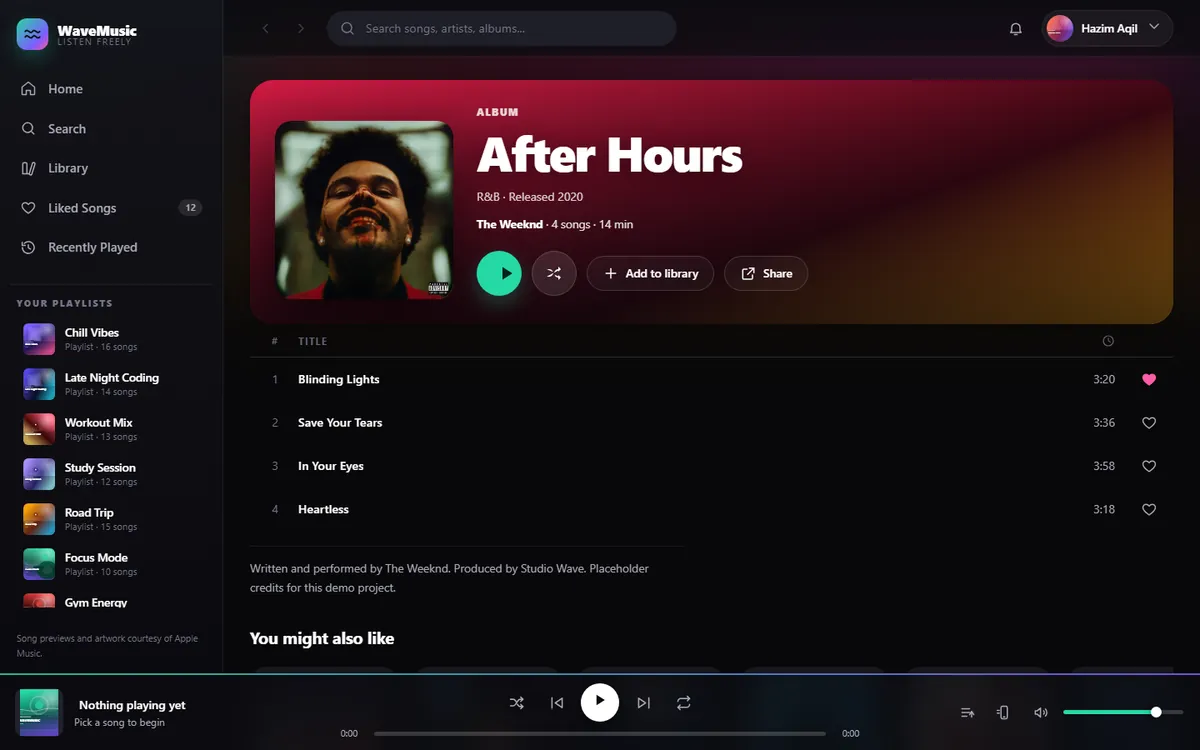
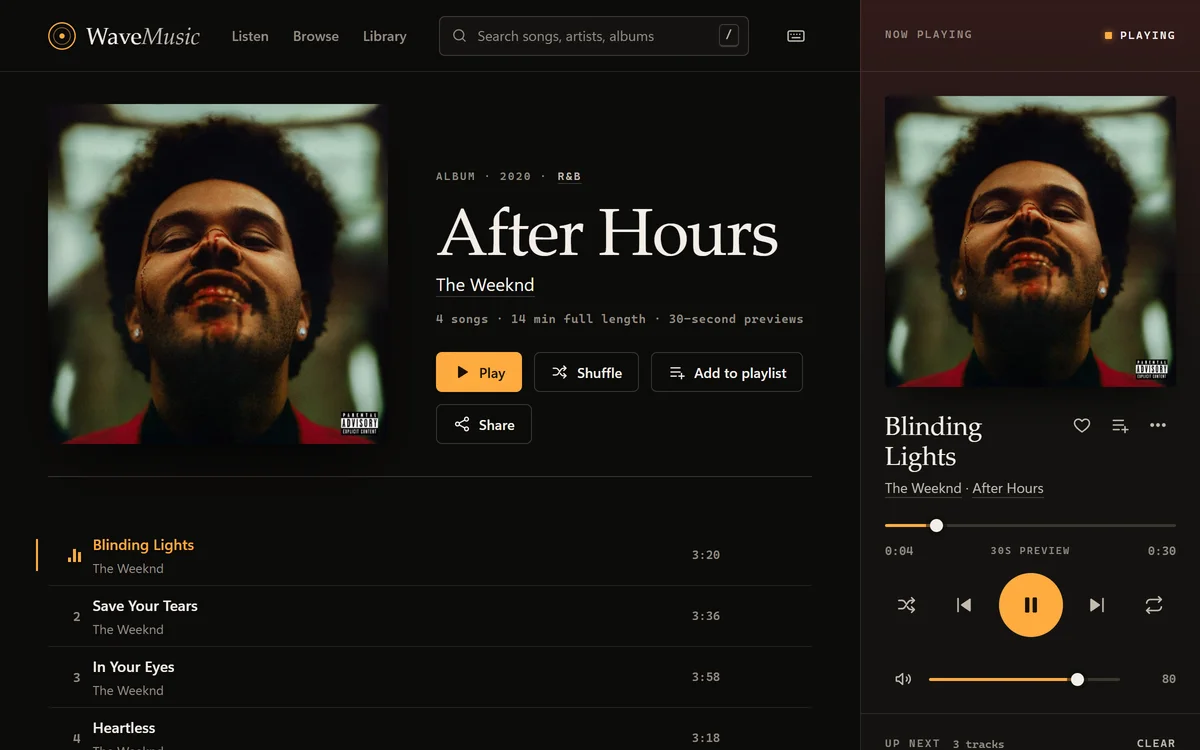
Update WaveMusic case study for version 2.0 with new screenshots

diff --git a/src/data/projects.ts b/src/data/projects.ts
@@ -160,100 +160,107 @@ tests/          Vitest tests for helpers, hooks and components`,
     category: 'web',
     featured: true,
     summary:
-      'A full music streaming front end with no framework and no dependencies: home feed, live search, library, playlist, album and artist pages, a queue, a Now Playing overlay and a working player with shuffle, repeat, a draggable progress bar and lock-screen Media Session info. A Node script checks 95 app behaviours.',
+      'A music listening app in plain JavaScript modules with no framework and no dependencies. It plays real 30-second Apple Music previews, with an artwork-led editorial design, a player you can see at all times, an editable queue, playlists, search with filters and lock-screen controls. 50 unit tests cover the queue, audio engine, player, library and search.',
     lede:
-      'A complete music streaming front end written in plain HTML, CSS and JavaScript, with no framework, no dependencies and no build step. It plays real 30-second previews of 63 songs, loaded live from Apple Music.',
-    figure: { value: '95', label: 'behaviours checked' },
-    tests: { count: 95, tool: 'custom checks' },
-    role: 'Solo project: design, code and generated artwork',
+      'A music listening app written in plain HTML, CSS and JavaScript modules, with no framework and no dependencies. It plays real 30-second previews of 63 songs, loaded live from Apple Music. Version 2.0 is a full rewrite: a new design, a modular codebase and real unit tests.',
+    figure: { value: '50', label: 'unit tests' },
+    tests: { count: 50, tool: 'node:test' },
+    role: 'Solo project: design, code, tests and generated artwork',
     type: 'Static front-end portfolio project',
-    stack: ['HTML', 'CSS', 'JavaScript', 'iTunes Search API', 'Media Session API', 'localStorage'],
+    stack: ['HTML', 'CSS', 'JavaScript', 'ES modules', 'iTunes Search API', 'Media Session API', 'localStorage', 'Node.js test runner'],
     links: {
       demo: 'https://hazell-lab.github.io/WaveMusic/',
       code: 'https://github.com/hazell-lab/WaveMusic',
     },
     cover: {
       src: wavemusicCover,
-      alt: 'WaveMusic home page with a sidebar, playlists and the bottom player',
-      caption: 'Home: greeting, recently played, mixes and the fixed bottom player.',
+      alt: 'WaveMusic Listen page with the number one song in large serif type and the player deck on the right, playing BIRDS OF A FEATHER',
+      caption: 'Listen page with the player deck, which stays in view on desktop.',
     },
     overview: [
-      'WaveMusic has a home feed, search, a library, playlist, album and artist pages, a queue, a Now Playing overlay and a working bottom player. The design is original: it takes the general feel of modern music apps but copies no branding, logos or layouts.',
-      'Because it uses **no framework**, every part of routing, rendering, state and events is written by hand, and the main challenge was keeping a large, app-like interface organised.',
+      'WaveMusic has a Listen page, Browse with search and genres, a Library, album, artist, collection and playlist pages, an editable queue and a player that is always in view. The design is led by artwork and set out like a magazine: large serif titles, a mono type for labels and one amber signal colour on near-black. It is meant to feel different from the big streaming apps, not copy them.',
+      'Version 2.0 replaced one 1,895-line script with **small ES modules**, removed every feature that only pretended to work, and added a real unit test suite that runs in Node with no dependencies.',
     ],
     features: [
-      { title: 'Real previews', text: 'Each song plays its official 30-second preview with real album artwork.' },
-      { title: 'Player', text: 'Play, pause, next, previous, shuffle, repeat (off, all, one), a draggable progress bar that also works with the keyboard, volume and mute.' },
-      { title: 'Playlists and queue', text: 'Playlist, album and artist pages with full track tables, a slide-in queue panel, and liked songs with their total duration.' },
-      { title: 'Media Session', text: 'Track metadata for the operating system and lock screen.' },
-      { title: 'Live search', text: 'Filters songs, artists, albums, playlists and genres as you type.' },
-      { title: 'Shareable views', text: 'The current page is kept in the URL hash, and back and forward work.' },
-      { title: 'Keyboard shortcuts', text: 'Space to play or pause, / to search, Shift + arrows for next and previous, Esc to close overlays.' },
+      { title: 'Real previews', text: 'Each song plays its official 30-second preview with real album artwork. One lookup request loads all 63 and is cached for 24 hours.' },
+      { title: 'Player', text: 'Play, pause, next, previous (which restarts after 3 seconds), seek, volume, mute, shuffle and repeat off, all or one, with a status lamp for loading, playing, paused and error.' },
+      { title: 'Queue', text: 'An up-next list with play now, move up, move down, remove, play next, add to queue and clear. Turning shuffle off restores the original order.' },
+      { title: 'Library and playlists', text: 'Like songs, follow artists, create, rename and delete playlists, reorder tracks, save a collection as your own and keep a play history.' },
+      { title: 'Search', text: 'Accent- and case-insensitive search across songs, albums, artists and collections, with type and genre filters and clear empty, loading and error states.' },
+      { title: 'Media Session', text: 'Title, artist, album and artwork on the lock screen and in the system media controls, with play, pause, next, previous and seek handlers.' },
+      { title: 'Keyboard', text: '11 shortcuts, including Space or K to play, Shift + arrows for next and previous, arrows to seek, / to search and ? for the full list.' },
+      { title: 'Phone layout', text: 'A bottom tab bar and a mini player that opens a full-screen player sheet, with the page behind it made inert.' },
     ],
     frontEnd: [
-      'One `state` object holds the view history, queue, current position, shuffle, repeat, volume and liked songs. It is saved to localStorage and read back on load.',
-      'Shuffle keeps its own shuffled list of queue positions with the current song first, so "next" plays every other song once before the queue ends.',
-      'The playing song is sent to the Media Session API, so its title, artist and cover show in the system media controls and on the lock screen.',
-      'A demo mode plays through the queue with a timer, so the player still works when the preview audio cannot load.',
+      'Three small observable stores hold the player, library and catalogue state. Views and the player UI subscribe to them, and the queue, library and search logic are **pure functions** that never touch the DOM.',
+      'One `<audio>` element plays everything, so two songs can never overlap. Each load gets a token, so a slow `play()` promise from an earlier track cannot start or show the wrong song.',
+      'The progress bar runs on `requestAnimationFrame` only while audio is playing and the tab is visible, and writes straight to the DOM, so playback never re-renders the page.',
+      'Views are HTML strings built with an `html` tagged template that escapes every value, so a playlist named `<b>x</b>` shows as plain text.',
+      'The session (queue, track, position, volume, shuffle, repeat) is saved and comes back **paused** after a reload, because browsers block autoplay without a click.',
     ],
     architecture: {
       intro: [
-        '`index.html` is a shell that never changes: sidebar, top bar, an empty `<main>`, the player and the overlays. All content lives in `data.js`, and `app.js` is split into 11 numbered sections, from state and persistence to the router, the views and one global event handler.',
+        '`index.html` is the shell: masthead, an empty `<main>`, the player deck, mini player, tab bar and dialogs. `main.js` wires the modules together and handles every click through one delegated listener and an `ACTIONS` map keyed by `data-action`.',
       ],
-      tree: `index.html     the app shell
-css/style.css  every style, driven by css variables
-js/data.js     songs, artists, albums, playlists, palettes
-js/app.js      state, audio, player, views, router, events, startup
-js/art.js      cover helpers and the broken-image fallback
-js/icons.js    an svg sprite of 59 hand-written icons
-docs/          build-art.js (covers) and verify-logic.js (95 checks)`,
+      tree: `index.html          the app shell
+css/                base, layout, player and views
+js/main.js          wiring and the single click handler
+js/router.js        hash router
+js/core/            store, storage, formatting, safe html
+js/data/            catalogue and the apple music loader
+js/player/          audio engine, queue, media session, player
+js/library/         likes, follows, playlists, history
+js/search/          weighted, accent-insensitive search
+js/ui/, js/views/   player ui, track lists, dialogs, pages
+scripts/            dev server, build check, cover art, zip
+tests/              50 unit tests with a fake audio element`,
     },
     decisions: [
       {
-        challenge: 'Without a framework, re-rendering pages can easily leak event listeners or need complex wiring for every button.',
-        decision: 'Every view is a function that returns an HTML string, and buttons carry a `data-action` attribute. **One** click listener on the document handles them all, so there are no listeners to leak.',
+        challenge: 'Version 1 had a profile menu, notifications, a devices picker, made-up dates and an offline "demo mode" that moved the progress bar with no audio.',
+        decision: 'All of it was **removed**. If the catalogue cannot load, the app says so and offers a retry instead of pretending to play.',
       },
       {
-        challenge: "63 songs need preview links and artwork, and Apple's preview links can change over time.",
-        decision: 'Each song stores only its Apple Music track id. On startup the app sends **one** lookup request for all 63 ids and caches the result in localStorage for 24 hours.',
+        challenge: 'One broken preview should not end a listening session, but a dead network should not cause an endless skip loop.',
+        decision: 'A failed track shows an error and a toast, then the player skips to the next playable track, and it **stops after one full pass** through the queue.',
       },
       {
-        challenge: 'If the network is offline or blocked, there is no audio, and a music player with nothing to play feels broken.',
-        decision: 'A demo mode takes over: a 250 ms timer drives the playhead, so the progress bar, next, previous, repeat and the Now Playing view still behave as normal, and the badge changes to "Demo".',
+        challenge: 'The audio code is the hardest part to get right and the hardest to check by hand.',
+        decision: 'The audio engine takes the `<audio>` element as a parameter, so tests pass in a **fake audio element** whose `play()` can resolve, hang, fail or be blocked like a real browser.',
       },
       {
-        challenge: 'A dense desktop layout with a sidebar and a three-part player has to work on a phone.',
-        decision: 'Five breakpoints: the sidebar becomes a drawer, a bottom navigation appears, the player shrinks to a mini bar, and Now Playing becomes a full-screen sheet.',
+        challenge: 'The goal was better engineering without moving to a framework or adding dependencies.',
+        decision: 'Native **ES modules** with no bundler. The same files run in the browser and in Node tests, and a build script copies the app and checks that all 100 local references resolve.',
       },
     ],
     testing: {
       intro: [
-        '`docs/verify-logic.js` loads the real app files into a small DOM in Node and checks that every view renders, the router works, the player behaves, the data is consistent and every generated cover exists. It runs offline, so it also proves that demo mode works.',
+        "`npm test` runs 50 unit tests with Node's built-in test runner and no dependencies. A fake `<audio>` element, an in-memory storage and a seeded shuffle stand in for the browser.",
       ],
       stats: [
-        { value: '95', label: 'automated checks against the real app code' },
-        { value: '0', label: 'dependencies and no build step' },
-        { value: '1', label: 'API request to load the whole catalogue' },
+        { value: '50', label: 'unit tests for queue, audio, player, library and search' },
+        { value: '0', label: 'runtime or dev dependencies' },
+        { value: '100', label: 'local references checked by the build' },
       ],
       notes: [
-        'I last ran it on 14 November 2026: 95 passed, 0 failed.',
-        'The progress bars are real sliders (`role="slider"`) that you can move with the arrow keys, icon-only buttons have labels, and animations switch off for reduced motion.',
+        'I last ran them on 17 November 2026: 50 passed, 0 failed.',
+        'The rest was checked by hand in Chromium at 1440, 1280, 820 and 390 pixels wide. Firefox, Safari and real phones were not tested yet.',
       ],
     },
     gallery: {
-      source: 'Captured from the live GitHub Pages demo.',
+      source: 'Captured from the live GitHub Pages demo while a preview was playing.',
       images: [
-        { src: waveAlbum, alt: 'WaveMusic album page for After Hours with the track list and play controls', caption: 'Album page with a colour gradient taken from the album palette.', frame: 'wide' },
-        { src: waveMobile, alt: 'WaveMusic home on a phone with a mini player and bottom navigation', caption: 'Phone layout with the mini player and bottom navigation.', frame: 'phone' },
+        { src: waveAlbum, alt: 'WaveMusic album page for After Hours with the track list, the playing row marked and the player deck on the right', caption: 'Album page. The deck picks up a tint from the album artwork.', frame: 'wide' },
+        { src: waveMobile, alt: 'WaveMusic full-screen player on a phone with artwork, seek bar, transport controls, volume and the up-next queue', caption: 'On a phone, the mini player opens a full-screen player with the queue.', frame: 'phone' },
       ],
     },
     learned: [
-      'Structuring a large vanilla JavaScript app so it stays readable: one shell, one data file, numbered sections and one event handler.',
-      'Building a small hash router with its own back and forward history.',
-      'Working with the HTML audio element, the Media Session API and a public API with caching.',
-      'Planning for failure: fallbacks for broken images and a demo mode for a missing network.',
+      'Splitting a large vanilla JavaScript app into small modules with clear jobs, and keeping logic pure so it can be tested without a browser.',
+      'Handling the messy parts of audio in the browser: stale promises, blocked autoplay, media errors and listener cleanup.',
+      'Testing code that depends on browser APIs by passing in fakes instead of mocking globals.',
+      'Being honest in a portfolio project: removing features that only looked real.',
     ],
-    next: ['Live search against the full iTunes catalogue', 'A saved queue', 'A Vitest or Playwright suite built on the current checks'],
+    next: ['Live search against the full iTunes catalogue', 'Testing in Firefox, Safari and on real phones', 'Offline caching with a service worker'],
   },
 
   /* =========================

diff --git a/src/types/content.ts b/src/types/content.ts
@@ -91,7 +91,7 @@ export interface Project {
   /** automated tests i ran myself, used for the totals in the hero */
   tests?: {
     count: number;
-    tool: 'Vitest' | 'xUnit' | 'custom checks';
+    tool: 'Vitest' | 'xUnit' | 'node:test' | 'custom checks';
   };
   role: string;
   type: string;
